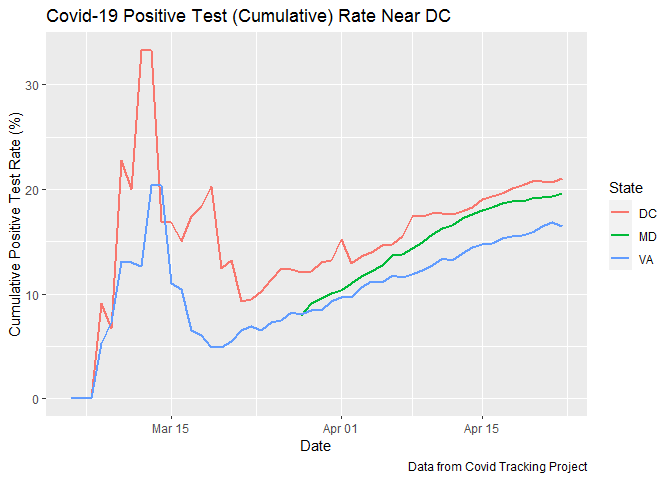
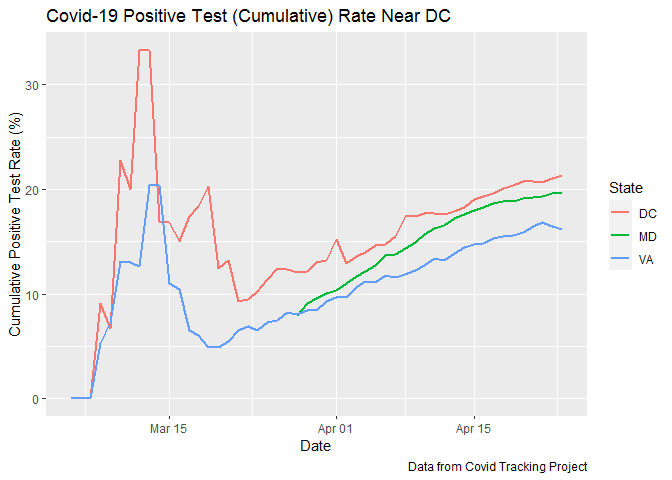
Update for morning of 25 April

diff --git a/Markdown/Pos_Test_Rate.md b/Markdown/Pos_Test_Rate.md
@@ -1,7 +1,7 @@
 Positive Covid-19 Test Rate Increases Around DC
 ================
 
-2020-04-24 14:05:27
+2020-04-25 11:52:30
 
 The number of Covid-19 tests conducted in the DC area increased
 considerably through the first part of April and has generally plateaued
@@ -19,15 +19,15 @@ it doesn’t show abnormal spikes in late March.
 Despite plateauing or decreasing numbers of tests in the area, the
 cumulative positive test rate has increased over time since the rates
 spiked in mid-March, when fewer Covid-19 tests were being conducted.
-Right now, the cumulate positive rate in DC is 21.1%, the rate in
-Maryland is 19.6%, and the rate in Virginia is 16.5%.
+Right now, the cumulate positive rate in DC is 21.3%, the rate in
+Maryland is 19.6%, and the rate in Virginia is 16.2%.
 
 ![](Pos_Test_Rate_files/figure-gfm/pos_rate_cumulative-1.png)<!-- -->
 
 The recent increases in positive test rates are more pronounced when
 displayed as recent, rather than cumulative, averages. The average
-positive test rate between 2020-04-21 and 2020-04-23 was 23.9% in DC,
-23.6% in Maryland, and 21% in Virginia.  
+positive test rate between 2020-04-22 and 2020-04-24 was 27% in DC,
+21.9% in Maryland, and 14.4% in Virginia.  
 \` ![](Pos_Test_Rate_files/figure-gfm/rolling_pos_rate-1.png)<!-- -->
 
 New York state has generally had the highest testing rate of any state,
